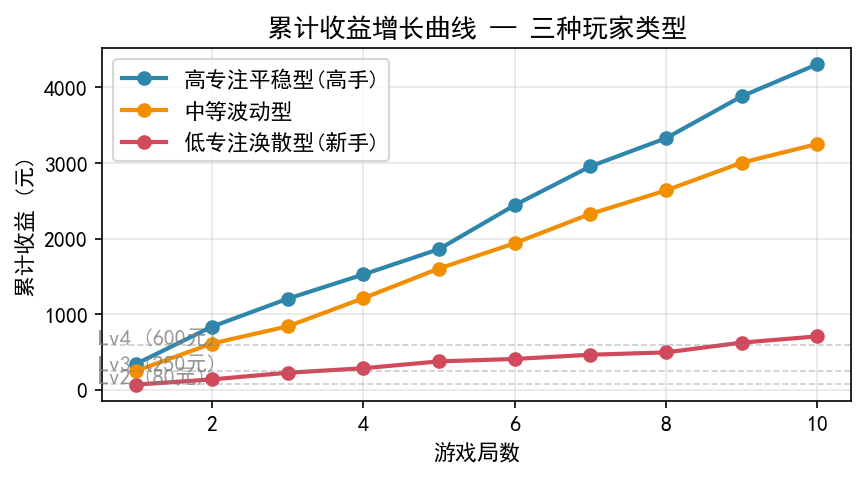
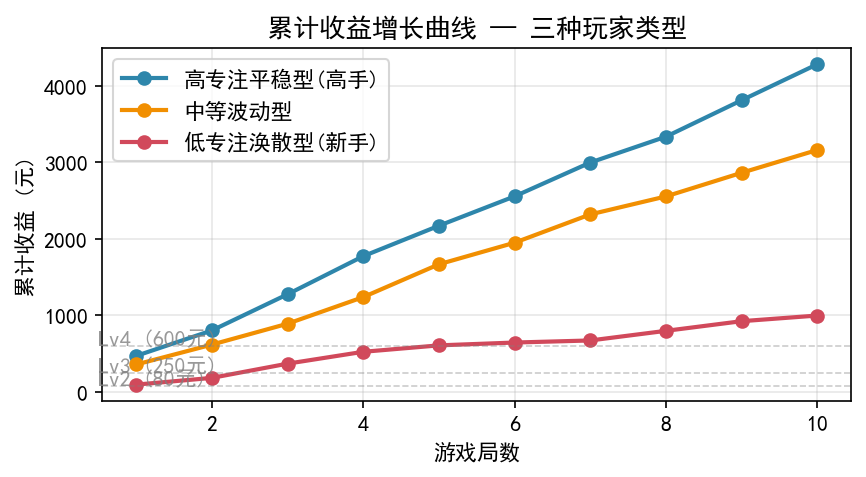
fix(profiles): 修正训练配置文件中的生成状态
将 profiles/11_training.json 中的 generated 字段从 true 改为 false，
以确保训练配置正确反映未生成状态

feat(metrics): 更新玩家对比图表的标签显示

修改 tests/metrics/test_metrics_game_balance.py 中的箱线图标签，
将英文缩写替换为中文描述（"高专注", "中专注", "低专注"），
同时保留了原有的图表样式设置
```

diff --git a/tests/metrics/test_metrics_game_balance.py b/tests/metrics/test_metrics_game_balance.py
@@ -163,7 +163,7 @@ def _plot_player_comparison(all_results: dict[str, list[dict]]) -> None:
                 raw = [r["zero_revenue_cups"] / max(r["cups"], 1) * 100 for r in all_results[pname]]
             data_list.append(raw)
 
-        bp = ax.boxplot(data_list, tick_labels=[p[:4] for p in pnames], patch_artist=True,
+        bp = ax.boxplot(data_list, tick_labels=["高专注", "中专注", "低专注"], patch_artist=True,
                          widths=0.5, showfliers=True, flierprops=dict(marker="o", markersize=5))
 
         for patch, c in zip(bp["boxes"], [color] * 3):